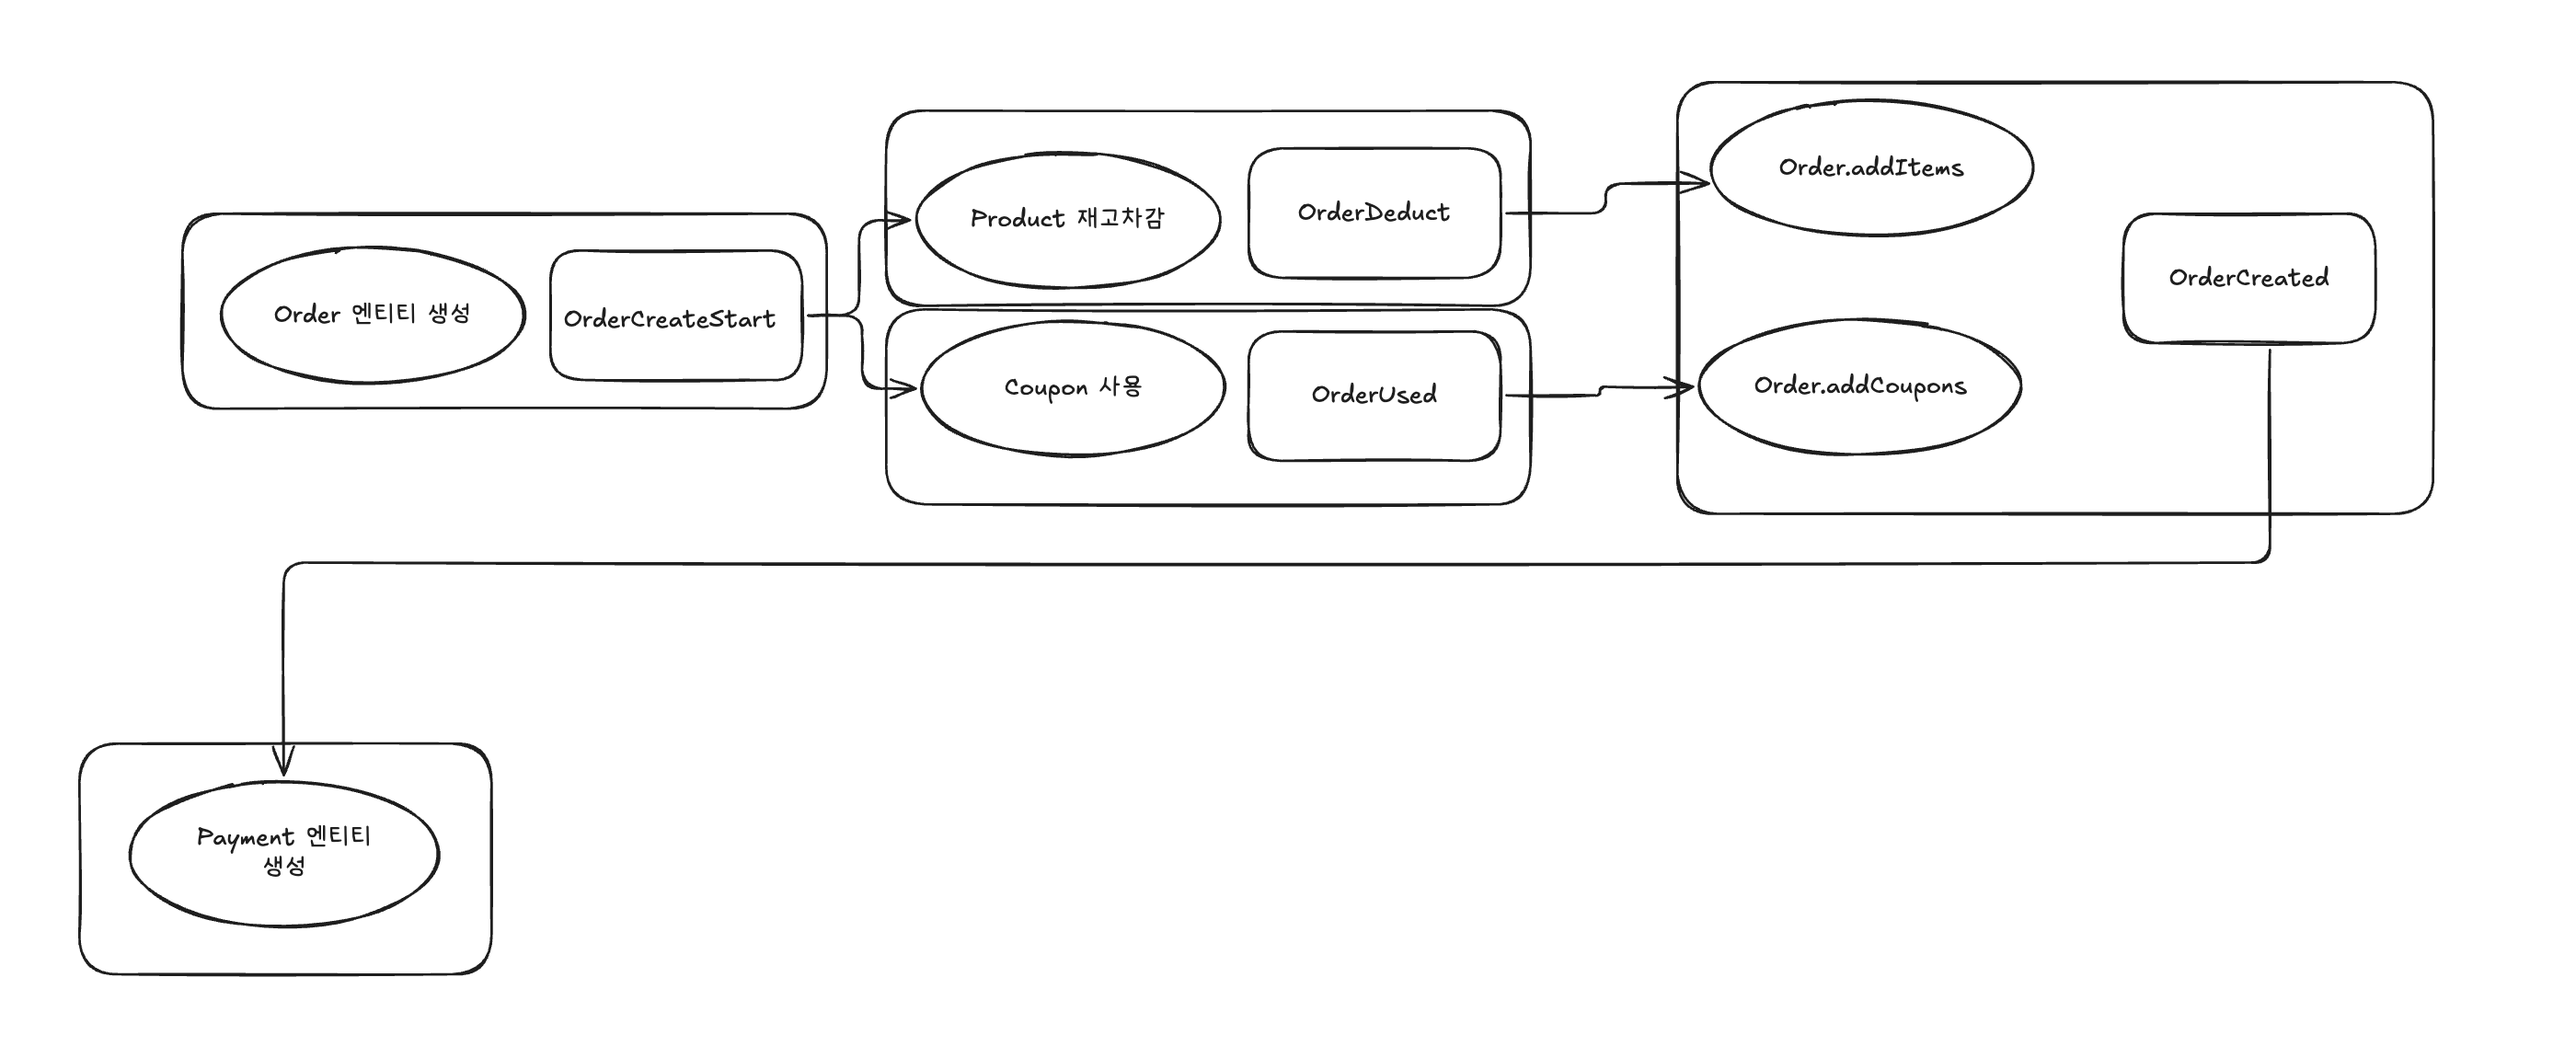
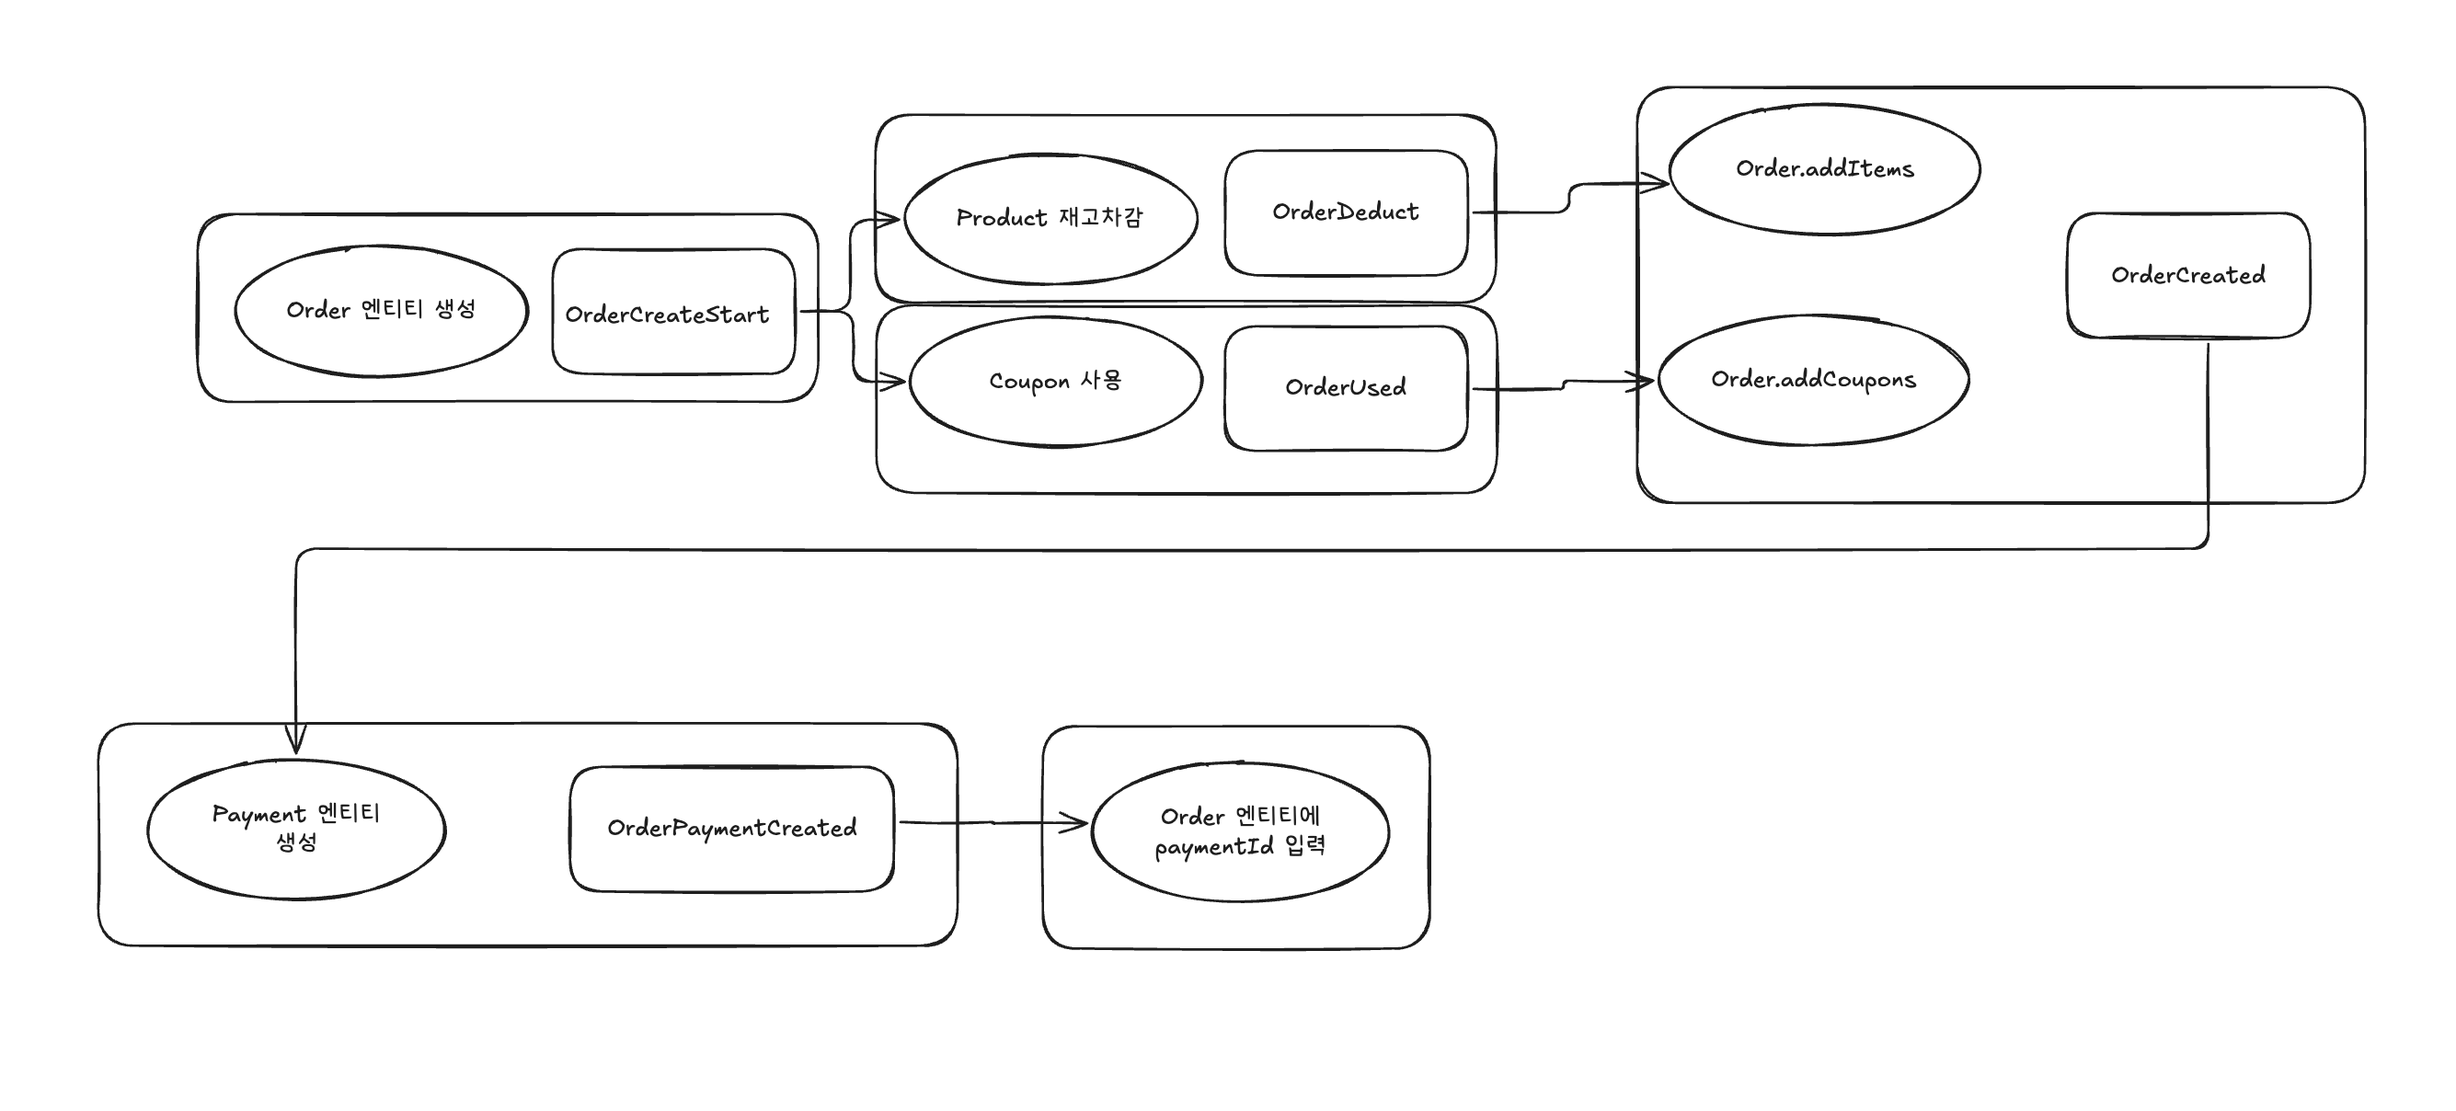
docs(transaction): 분산트랜잭션 문제 식별및 해결방법

diff --git a/docs/event/readme.md b/docs/event/readme.md
@@ -7,7 +7,20 @@
 주문의 경우 다른 도메인이 변경돼도 정보가 유지돼야한다.  
 따라서 주문 시점의 정보로 해당 도메인에서 엔티티를 생성해 유지 및 사용한다.
 
-쿠폰의 경우 발급시에 정보가 정해진다. 따라서 사용자에게 발급된 쿠폰
+정하는 기준은 실제 프로그램 이용 시 어떤 기능을 제공해야하는지를 기준으로 삼았다.
+
+주문은 주문대상상품목록과 쿠폰의 할인율을 적용해 가격을 보여줘야한다.
+또한 결제 여부를 확인할 수 있어야한다.
+
+결제는 다양한 결제수단을 지원해야한다. 주문 이외에도 다양한 곳에서 사용될 수 있다.
+
+상품은 검색이 주요한 역할이다. 주문 이외에도 이벤트 등 다양한 곳에서 사용될 수 있다.
+
+쿠폰은 발급이 가능해야하고, 발급된 쿠폰을 조회할 수 있어야한다. 주문 이외에도 다양한 곳에 적용할 수 있다.
+
+포인트는 충전을 할 수 있어야한다. 여러 도메인에서 사용, 충전 될 수 있는 여지가 있다.
+
+생명주기와 재사용성을 고려했을 때 맥락은 저렇게 5가지로 구분했다.
 
 ## 이벤트 설계 (분산 트랜잭션 적용 전)
 
@@ -16,9 +29,9 @@
 
 ### 주문 생성
 
-갈라진 이벤트를 검증하기 위해  
-Order에 productStatus, couponStatus 추가  
-TODO: 추후 분산 트랜잭션 적용 후 롤백여부 확인을 위해 OrderProcess.CreateStart 처럼 만들고 레디스 활용하여 관리
+갈라진 이벤트를 검증하기 위해    
+Order에 productStatus, couponStatus 추가    
+TODO: 추후 분산 트랜잭션 적용 후 롤백여부 확인을 위해 OrderProcess.CreateStart 처럼 만들고 레디스 활용하여 관리  
 TODO: 동기 처리중이기 때문에 재고, 쿠폰의 경우 콜렉션 전달하나 분산 트랜잭션 적용 후 단일처리로 변경
 
 ![주문 생성](주문생성_이벤트.png)
@@ -27,21 +40,31 @@ TODO: 동기 처리중이기 때문에 재고, 쿠폰의 경우 콜렉션 전달
 
 ![주문 결제](주문결제_이벤트.png)
 
-## 이벤트 설계 (분산 트랜잭션 적용 gn)
+## 분산 트랜잭션 적용시
 
-실선: BEFORE_COMMIT  
-점선: AFTER_COMMIT+Async
+트랜잭션이 분산될 경우 문제가 되는 지점은 다음과 같다.
 
-### 주문 생성
+### 동시성 문제
 
-TODO: 추후 OrderProcess.CreateStart.PruductDeduct 처럼
-병렬작업에 join이 필요한 경우 만들고 레디스 활용하여 관리
+A 분산 트랜잭션이 3번째 단계에서 오류가 발생할 예정일 때
 
-![주문 생성](주문생성_이벤트.png)
+2번째 단계종료 후 B 분산 트랜잭션이 접근한다.   
+그런데, A분산 트랜잭션이 롤백되기 전 작업된 정보를 조회하므로 동시성 문제가 발생한다.
 
-### 주문 결제
+#### 해결방법
 
-![주문 결제](주문결제_이벤트.png)
+분산락은 해제 시점을 알 수없는 코레오그라피 특성상 사용이 어렵다.  
+이를 해결하기 위해 리스너에서 작업을 수행하기 전, 해당 애그리거트 루트에 대해 작업여부상태를 저장한다.  
+작업이 모두 완료된 후 관련 애그리거트의 해당 상태를 변경하는 이벤트를 발행한다.  
+다른 분산 트랜잭션은 해당 상태를 확인하고 일정시간 대기 후, 이벤트를 재발행한다.
 
+### 롤백
 
+분산 트랜잭션은 각각의 트랜잭션이 분리돼있기 때문에 롤백이 까다롭다.
 
+#### 해결방법
+
+각 최초이벤트 대해 롤백여부(주문생성이라면 key가 OrderCreateEvent+orderId)를 redis에 저장한다.  
+특정 작업이 실패할 경우 롤백여부를 redis에 업데이트하고 롤백이벤트를 발행한다.  
+각 이벤트 구독시 해당 값을 우선조회하여  
+재귀적으로 해당 리스너에서 구독한 이벤트들의 롤백 이벤트를 발행한다.  
